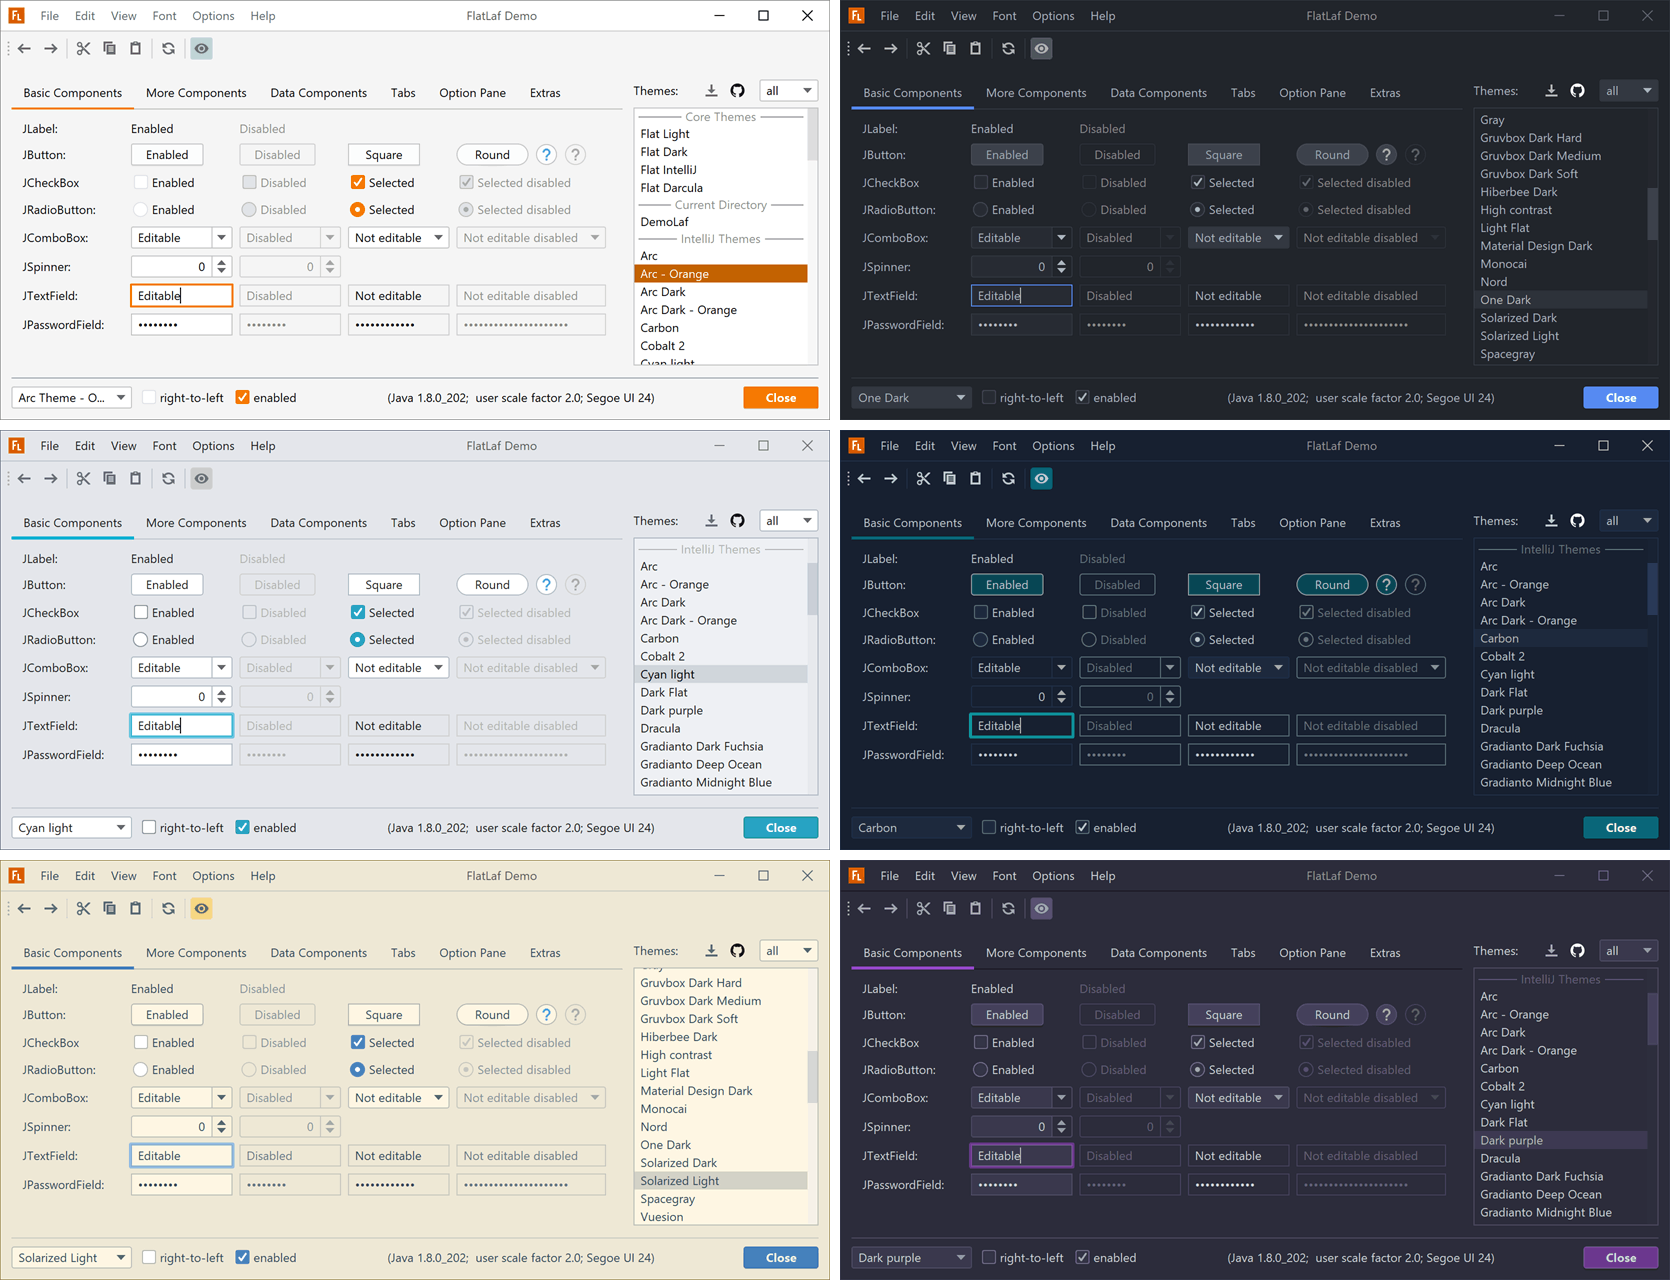
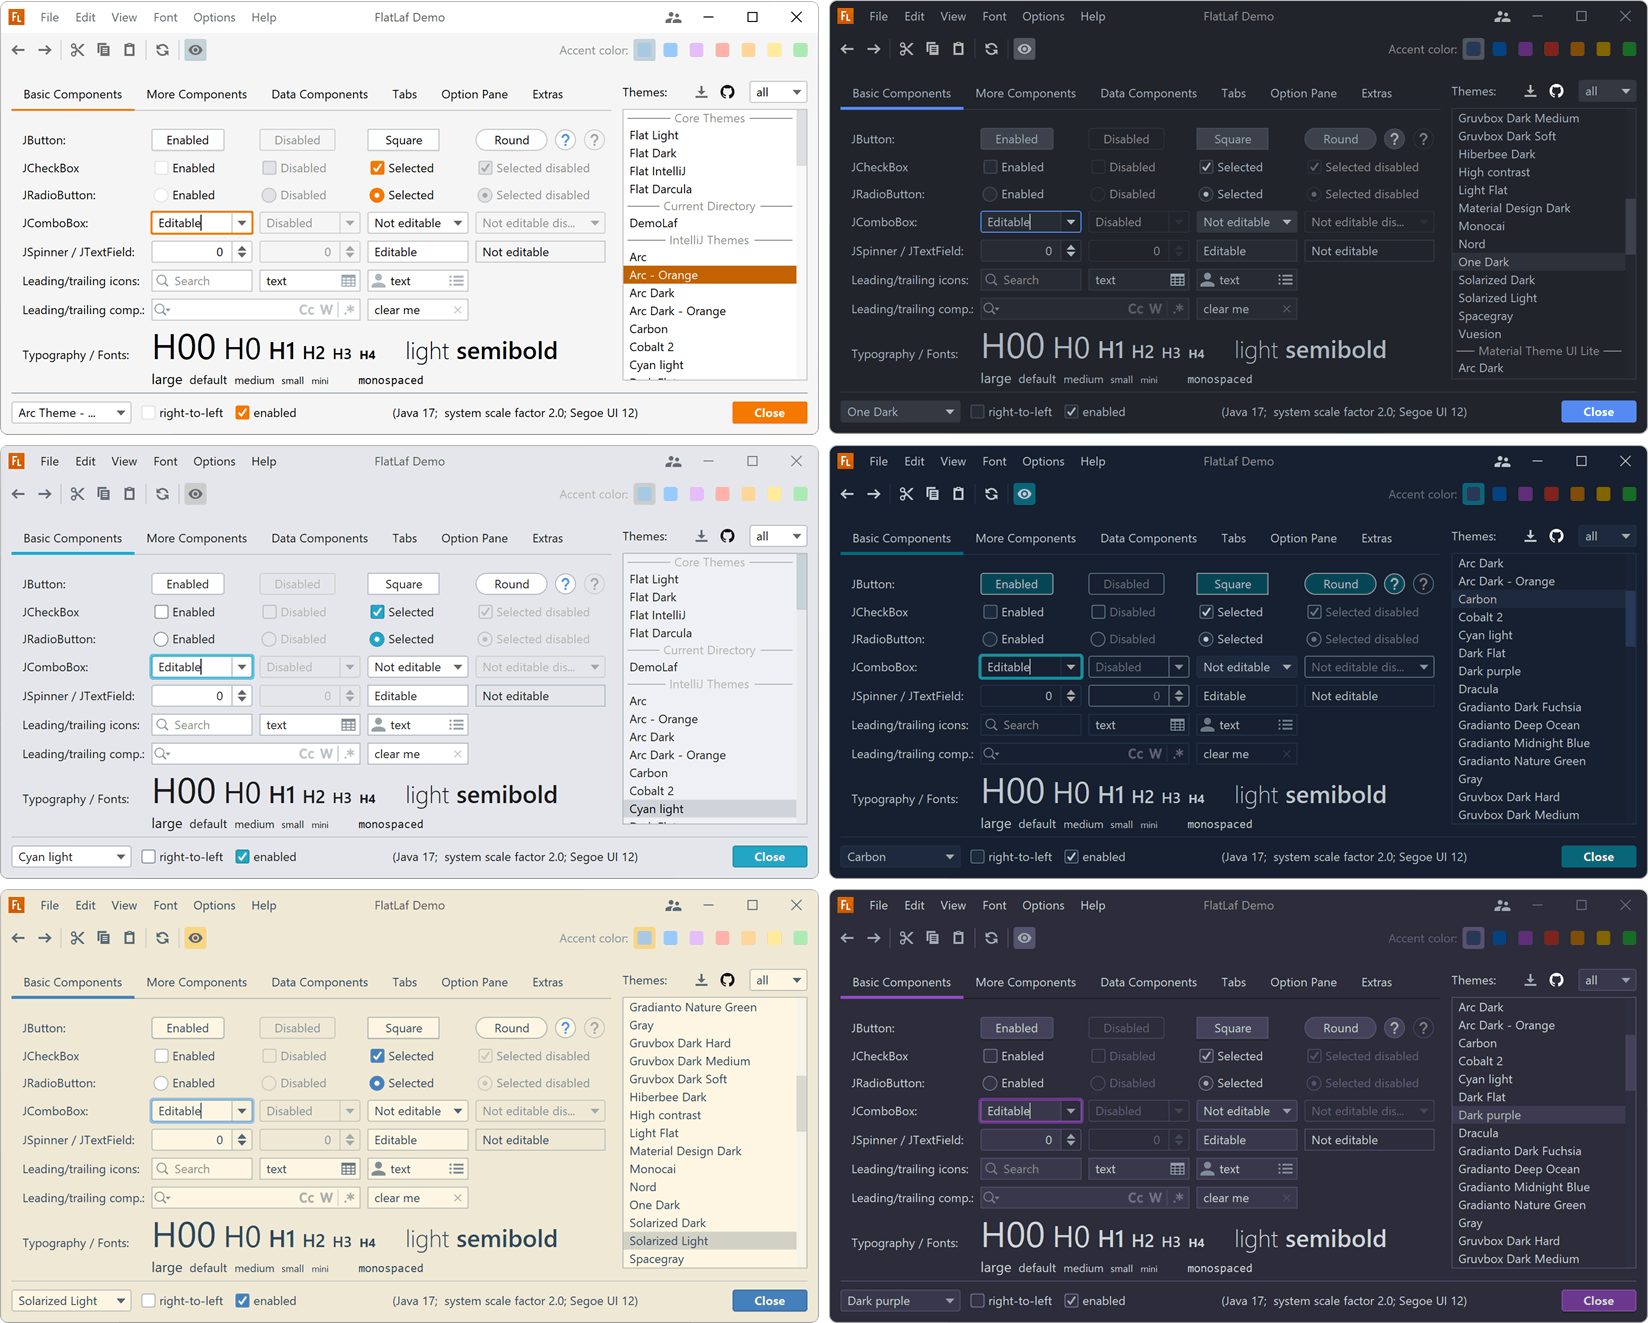
README.md: screenshots updated for v2

diff --git a/flatlaf-demo/src/main/java/com/formdev/flatlaf/demo/FlatLafDemo.java b/flatlaf-demo/src/main/java/com/formdev/flatlaf/demo/FlatLafDemo.java
@@ -71,8 +71,11 @@ public class FlatLafDemo
 			// create frame
 			DemoFrame frame = new DemoFrame();
 
-			if( FlatLafDemo.screenshotsMode )
-				frame.setPreferredSize( new Dimension( 1660, 880 ) );
+			if( FlatLafDemo.screenshotsMode ) {
+				frame.setPreferredSize( SystemInfo.isJava_9_orLater
+					? new Dimension( 830, 440 )
+					: new Dimension( 1660, 880 ) );
+			}
 
 			// show frame
 			frame.pack();
